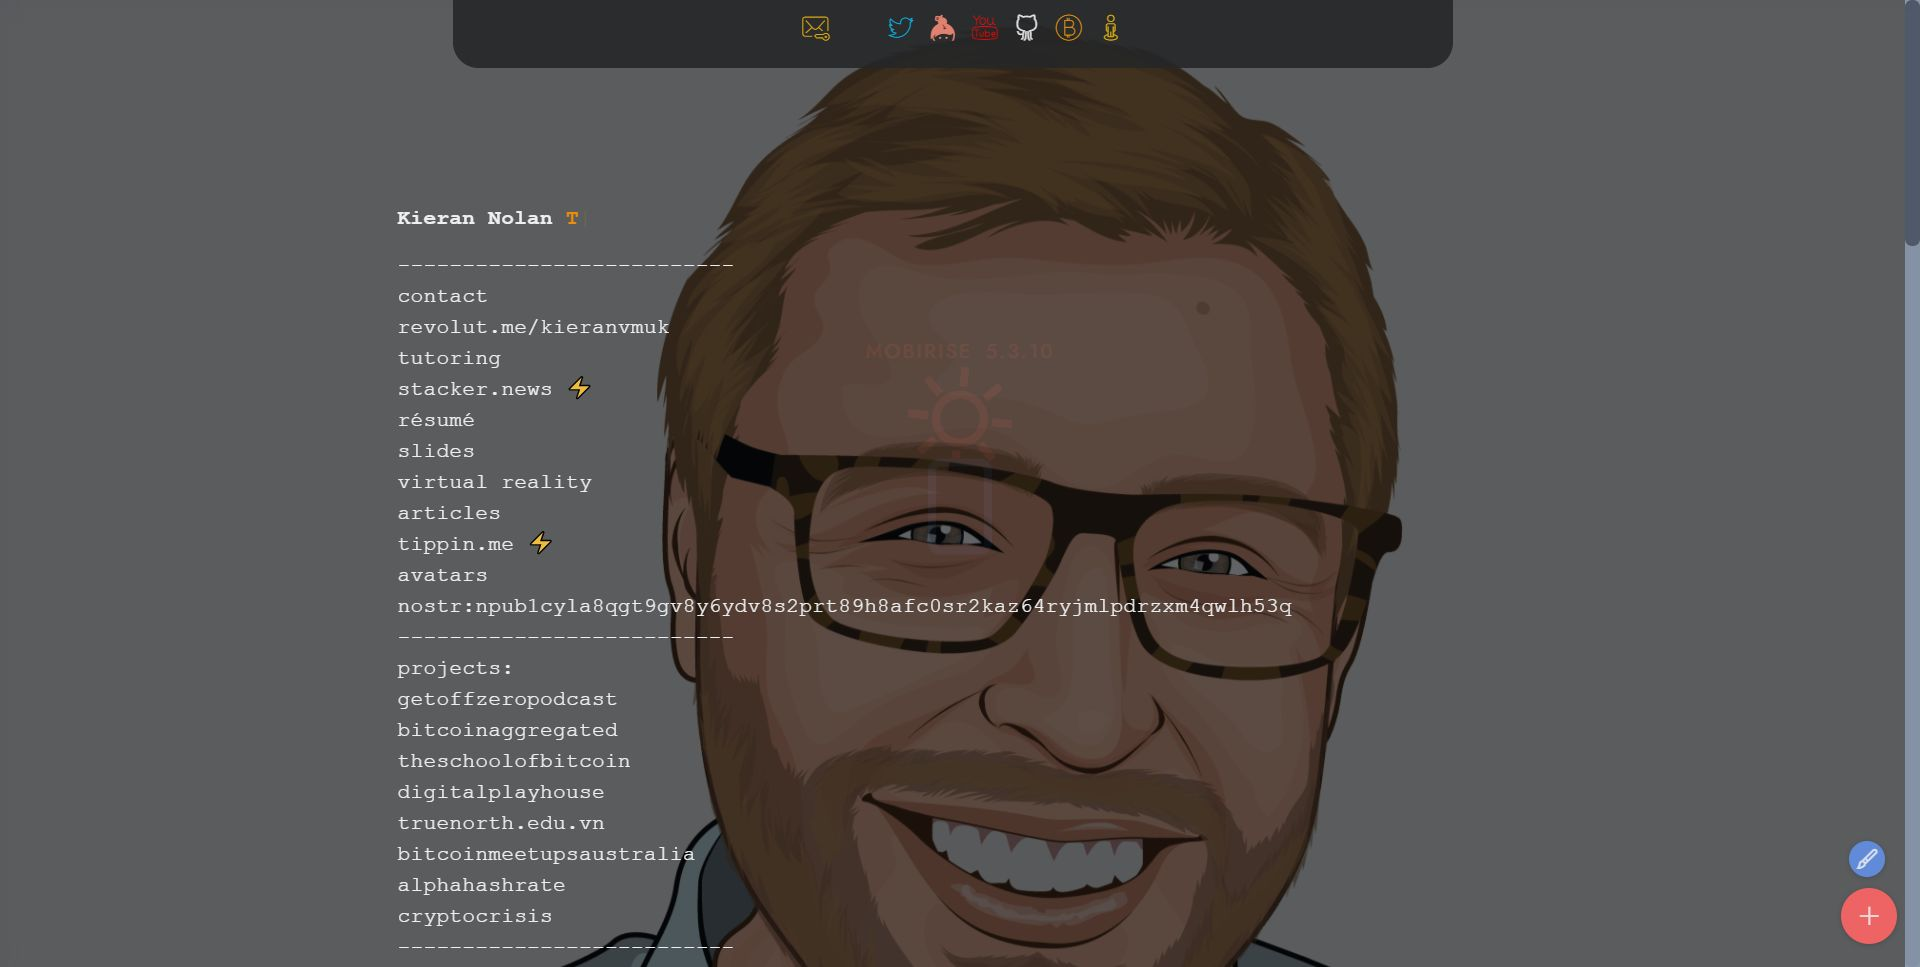
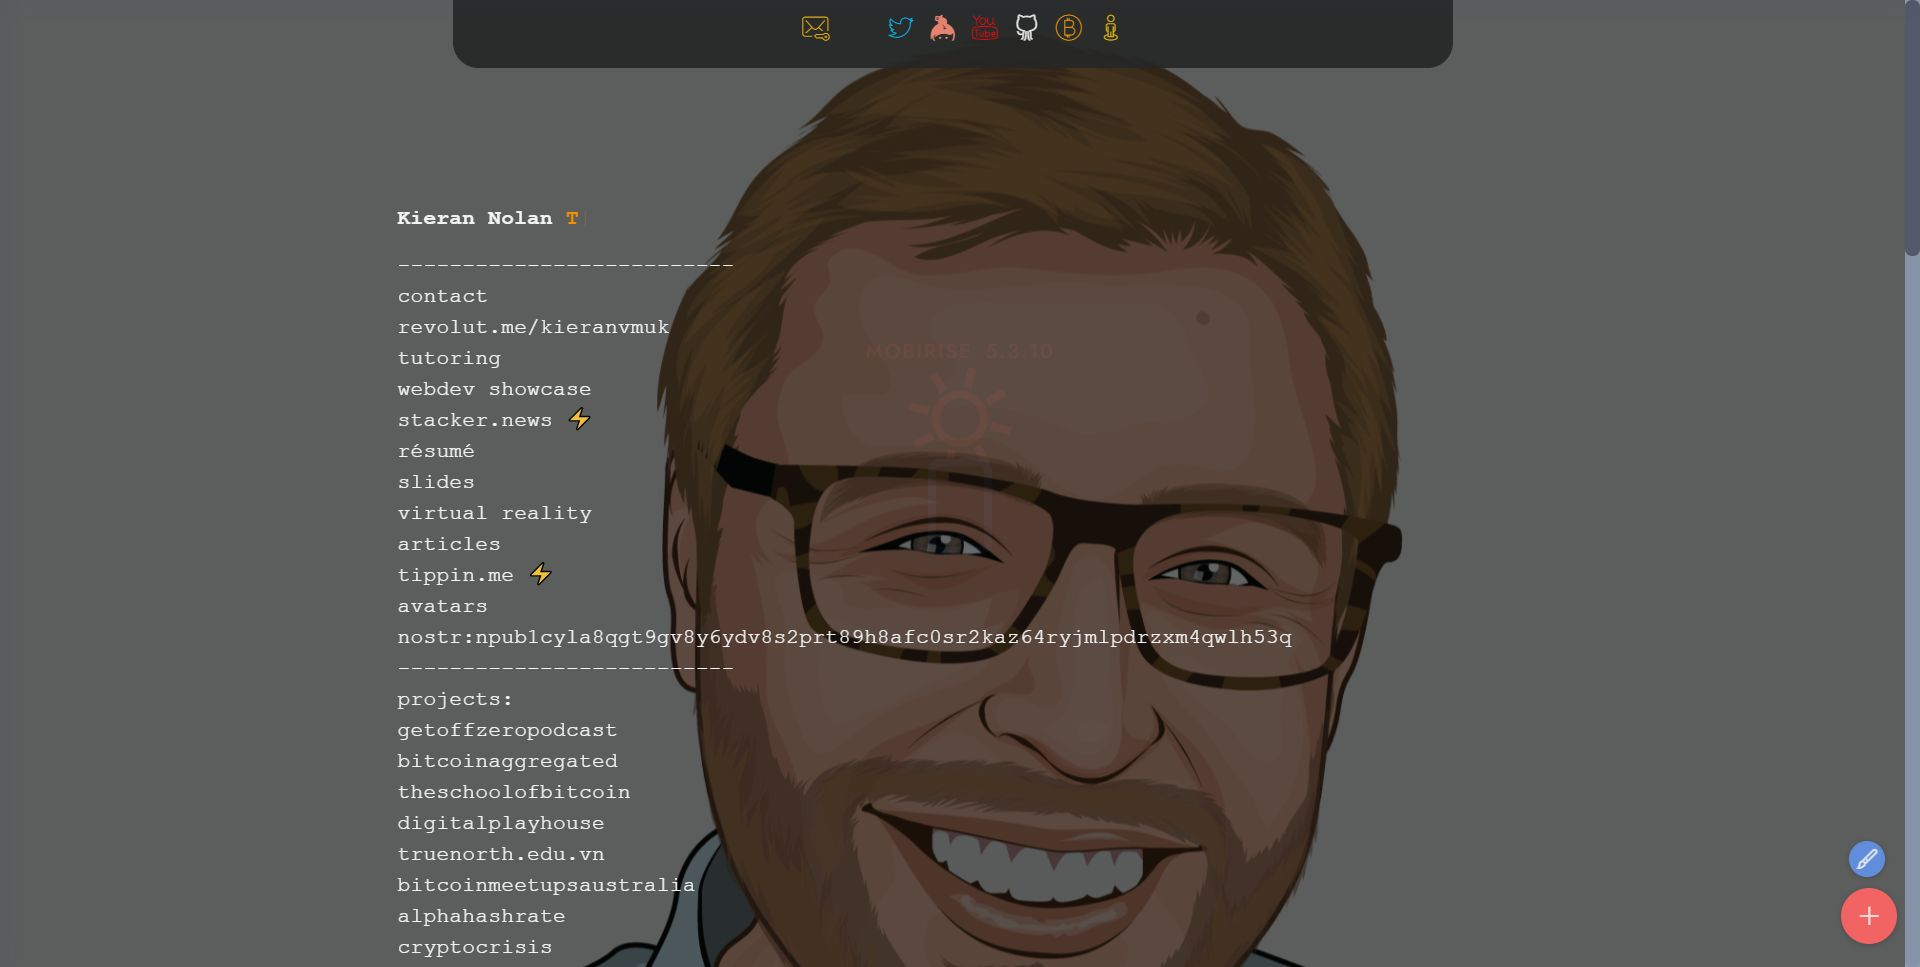
tutor
tutor

diff --git a/index.html b/index.html
@@ -22,8 +22,8 @@
   <link rel="stylesheet" href="assets/bootstrap/css/bootstrap-grid.min.css">
   <link rel="stylesheet" href="assets/bootstrap/css/bootstrap-reboot.min.css">
   <link rel="stylesheet" href="assets/animatecss/animate.min.css">
-    <link rel="stylesheet" href="assets/smart-cart/minicart-theme.css">
-  <link rel="stylesheet" href="assets/popup-overlay-plugin/style.css">
+    <link rel="stylesheet" href="assets/popup-overlay-plugin/style.css">
+  <link rel="stylesheet" href="assets/smart-cart/minicart-theme.css">
   <link rel="stylesheet" href="assets/dropdown/css/style.css">
   <link rel="stylesheet" href="assets/socicon/css/styles.css">
   <link rel="stylesheet" href="assets/theme/css/style.css">
@@ -104,7 +104,7 @@
                     </span>
                 </div>
                 <p class="mbr-section-text mbr-fonts-style display-5">--------------------------
-<br><a href="mailto:15s59m84y@mozmail.com" class="text-primary">contact&nbsp;</a><br><a href="https://revolut.me/kieranvmuk" class="text-primary" target="_blank">revolut.me/kieranvmuk<br></a><a href="#" class="text-primary" data-toggle="modal" data-bs-toggle="modal" data-target="#mbr-popup-1m" data-bs-target="#mbr-popup-1m">tutoring</a><br><a href="page2.html" class="text-primary">webdev showcase<br></a><a href="https://stacker.news/KieranDNolan/posts" class="text-primary" target="_blank">stacker.news ⚡<br></a><a href="https://docs.google.com/document/d/e/2PACX-1vSJ3lUSlqyzEbDo2WYMuaCoPWlIEa_Dltg2NgMmwRnxJEwSH9Kfty-wHGQbAZDOrDtfyUymXv8UziGx/pub" class="text-primary" target="_blank">résumé</a><br><a href="https://docs.google.com/presentation/d/17VgbEdmkydBphCaPF-fNZWcem_wUsqc7-zxOej7hY0I/edit?usp=sharing" class="text-primary" target="_blank">slides</a><br><strong><a href="VR.html" class="text-primary">virtual reality</a></strong><br><strong><a href="https://github.com/kdnolan/kdnolan.github.io/tree/master/articles" class="text-primary" target="_blank">articles</a></strong><br><strong><a href="https://tippin.me/@KieranDNolan" class="text-primary" target="_blank">tippin.me</a>&nbsp;</strong>⚡<br><a href="https://github.com/kdnolan/kdnolan.github.io/tree/master/avatars" class="text-primary" target="_blank">avatars</a><br><a href="https://astral.ninja/npub1cyla8qgt9gv8y6ydv8s2prt89h8afc0sr2kaz64ryjmlpdrzxm4qwlh53q" class="text-primary" target="_blank">nostr:npub1cyla8qgt9gv8y6ydv8s2prt89h8afc0sr2kaz64ryjmlpdrzxm4qwlh53q</a><br>--------------------------<br>projects:<br><a href="https://getoffzeropod.com/" class="text-primary" target="_blank">getoffzeropodcast</a><br>bitcoinaggregated<a href="https://getoffzeropod.com/" class="text-primary" target="_blank"><br></a><a href="https://theschoolofbitcoin.com/" class="text-primary" target="_blank">theschoolofbitcoin</a><br><a href="https://www.digitalplayhouse.com.au/digital-playhouse-foundation" class="text-primary" target="_blank">digitalplayhouse</a>&nbsp;<br><a href="http://truenorth.edu.vn/our-school" class="text-primary" target="_blank">truenorth.edu.vn<br></a><a href="https://btcma.org/" class="text-primary" target="_blank">bitcoinmeetupsaustralia</a><a href="https://www.digitalplayhouse.com.au/digital-playhouse-foundation" class="text-primary" target="_blank"><br></a><a href="https://alphahashrate.com/" class="text-primary" target="_blank">alphahashrate</a><br><a href="https://store.steampowered.com/app/1022320/Crypto_Crisis_Education_Edition/" class="text-primary" target="_blank">cryptocrisis</a><br>--------------------------
+<br><a href="mailto:15s59m84y@mozmail.com" class="text-primary">contact&nbsp;</a><br><a href="https://revolut.me/kieranvmuk" class="text-primary" target="_blank">revolut.me/kieranvmuk<br></a><a href="http://kierancomputertutoring.github.io" class="text-primary" target="_blank">tutoring</a><br><a href="page2.html" class="text-primary">webdev showcase<br></a><a href="https://stacker.news/KieranDNolan/posts" class="text-primary" target="_blank">stacker.news ⚡<br></a><a href="https://docs.google.com/document/d/e/2PACX-1vSJ3lUSlqyzEbDo2WYMuaCoPWlIEa_Dltg2NgMmwRnxJEwSH9Kfty-wHGQbAZDOrDtfyUymXv8UziGx/pub" class="text-primary" target="_blank">résumé</a><br><a href="https://docs.google.com/presentation/d/17VgbEdmkydBphCaPF-fNZWcem_wUsqc7-zxOej7hY0I/edit?usp=sharing" class="text-primary" target="_blank">slides</a><br><strong><a href="VR.html" class="text-primary">virtual reality</a></strong><br><strong><a href="https://github.com/kdnolan/kdnolan.github.io/tree/master/articles" class="text-primary" target="_blank">articles</a></strong><br><strong><a href="https://tippin.me/@KieranDNolan" class="text-primary" target="_blank">tippin.me</a>&nbsp;</strong>⚡<br><a href="https://github.com/kdnolan/kdnolan.github.io/tree/master/avatars" class="text-primary" target="_blank">avatars</a><br><a href="https://astral.ninja/npub1cyla8qgt9gv8y6ydv8s2prt89h8afc0sr2kaz64ryjmlpdrzxm4qwlh53q" class="text-primary" target="_blank">nostr:npub1cyla8qgt9gv8y6ydv8s2prt89h8afc0sr2kaz64ryjmlpdrzxm4qwlh53q</a><br>--------------------------<br>projects:<br><a href="https://getoffzeropod.com/" class="text-primary" target="_blank">getoffzeropodcast</a><br>bitcoinaggregated<a href="https://getoffzeropod.com/" class="text-primary" target="_blank"><br></a><a href="https://theschoolofbitcoin.com/" class="text-primary" target="_blank">theschoolofbitcoin</a><br><a href="https://www.digitalplayhouse.com.au/digital-playhouse-foundation" class="text-primary" target="_blank">digitalplayhouse</a>&nbsp;<br><a href="http://truenorth.edu.vn/our-school" class="text-primary" target="_blank">truenorth.edu.vn<br></a><a href="https://btcma.org/" class="text-primary" target="_blank">bitcoinmeetupsaustralia</a><a href="https://www.digitalplayhouse.com.au/digital-playhouse-foundation" class="text-primary" target="_blank"><br></a><a href="https://alphahashrate.com/" class="text-primary" target="_blank">alphahashrate</a><br><a href="https://store.steampowered.com/app/1022320/Crypto_Crisis_Education_Edition/" class="text-primary" target="_blank">cryptocrisis</a><br>--------------------------
 <br><br><br><strong><a href="http://rocketshoes.io" class="text-primary" target="_blank"><br></a></strong><br><strong><a href="http://rocketshoes.io" class="text-primary" target="_blank"><br></a></strong><a href="http://kdnolan.hns.to" class="text-primary" target="_blank" style=""><br></a><br></p>
                 
             </div>

diff --git a/webdev.html b/webdev.html
@@ -21,8 +21,8 @@
   <link rel="stylesheet" href="assets/bootstrap/css/bootstrap-grid.min.css">
   <link rel="stylesheet" href="assets/bootstrap/css/bootstrap-reboot.min.css">
   <link rel="stylesheet" href="assets/animatecss/animate.min.css">
-      <link rel="stylesheet" href="assets/popup-overlay-plugin/style.css">
-  <link rel="stylesheet" href="assets/dropdown/css/style.css">
+    <link rel="stylesheet" href="assets/popup-overlay-plugin/style.css">
+    <link rel="stylesheet" href="assets/dropdown/css/style.css">
   <link rel="stylesheet" href="assets/socicon/css/styles.css">
   <link rel="stylesheet" href="assets/theme/css/style.css">
   <link rel="preload" href="https://fonts.googleapis.com/css?family=VT323:400&display=swap" as="style" onload="this.onload=null;this.rel='stylesheet'">
@@ -84,9 +84,9 @@
 
 <section class="slider1 cid-tveSm9BzEp mbr-fullscreen" id="slider1-1r">
     
-    <div class="carousel slide carousel-fade" id="tvfa0wJXbL" data-ride="carousel" data-interval="5000">
+    <div class="carousel slide carousel-fade" id="tvJvg6FtT1" data-ride="carousel" data-interval="5000">
        <ol class="carousel-indicators">
-            <li data-slide-to="0" class="active" data-target="#tvfa0wJXbL"></li><li data-slide-to="1" class="" data-target="#tvfa0wJXbL"></li><li data-slide-to="2" class="" data-target="#tvfa0wJXbL"></li><li data-slide-to="3" class="" data-target="#tvfa0wJXbL"></li><li data-slide-to="4" class="" data-target="#tvfa0wJXbL"></li>
+            <li data-slide-to="0" class="active" data-target="#tvJvg6FtT1"></li><li data-slide-to="1" class="" data-target="#tvJvg6FtT1"></li><li data-slide-to="2" class="" data-target="#tvJvg6FtT1"></li><li data-slide-to="3" class="" data-target="#tvJvg6FtT1"></li><li data-slide-to="4" class="" data-target="#tvJvg6FtT1"></li>
             
             
         </ol>
@@ -164,11 +164,11 @@
             
             
         </div>
- <a class="carousel-control carousel-control-prev" role="button" data-slide="prev" href="#tvfa0wJXbL">
+ <a class="carousel-control carousel-control-prev" role="button" data-slide="prev" href="#tvJvg6FtT1">
             <span class="mobi-mbri mobi-mbri-left" aria-hidden="true"></span>
             <span class="sr-only">Previous</span>
         </a>
-        <a class="carousel-control carousel-control-next" role="button" data-slide="next" href="#tvfa0wJXbL">
+        <a class="carousel-control carousel-control-next" role="button" data-slide="next" href="#tvJvg6FtT1">
             <span class="mobi-mbri mobi-mbri-right" aria-hidden="true"></span>
             <span class="sr-only">Next</span>
         </a>

diff --git a/VR.html b/VR.html
@@ -20,8 +20,8 @@
   <link rel="stylesheet" href="assets/bootstrap/css/bootstrap-grid.min.css">
   <link rel="stylesheet" href="assets/bootstrap/css/bootstrap-reboot.min.css">
   <link rel="stylesheet" href="assets/animatecss/animate.min.css">
-      <link rel="stylesheet" href="assets/popup-overlay-plugin/style.css">
-  <link rel="stylesheet" href="assets/dropdown/css/style.css">
+    <link rel="stylesheet" href="assets/popup-overlay-plugin/style.css">
+    <link rel="stylesheet" href="assets/dropdown/css/style.css">
   <link rel="stylesheet" href="assets/socicon/css/styles.css">
   <link rel="stylesheet" href="assets/theme/css/style.css">
   <link rel="preload" href="https://fonts.googleapis.com/css?family=VT323:400&display=swap" as="style" onload="this.onload=null;this.rel='stylesheet'">
